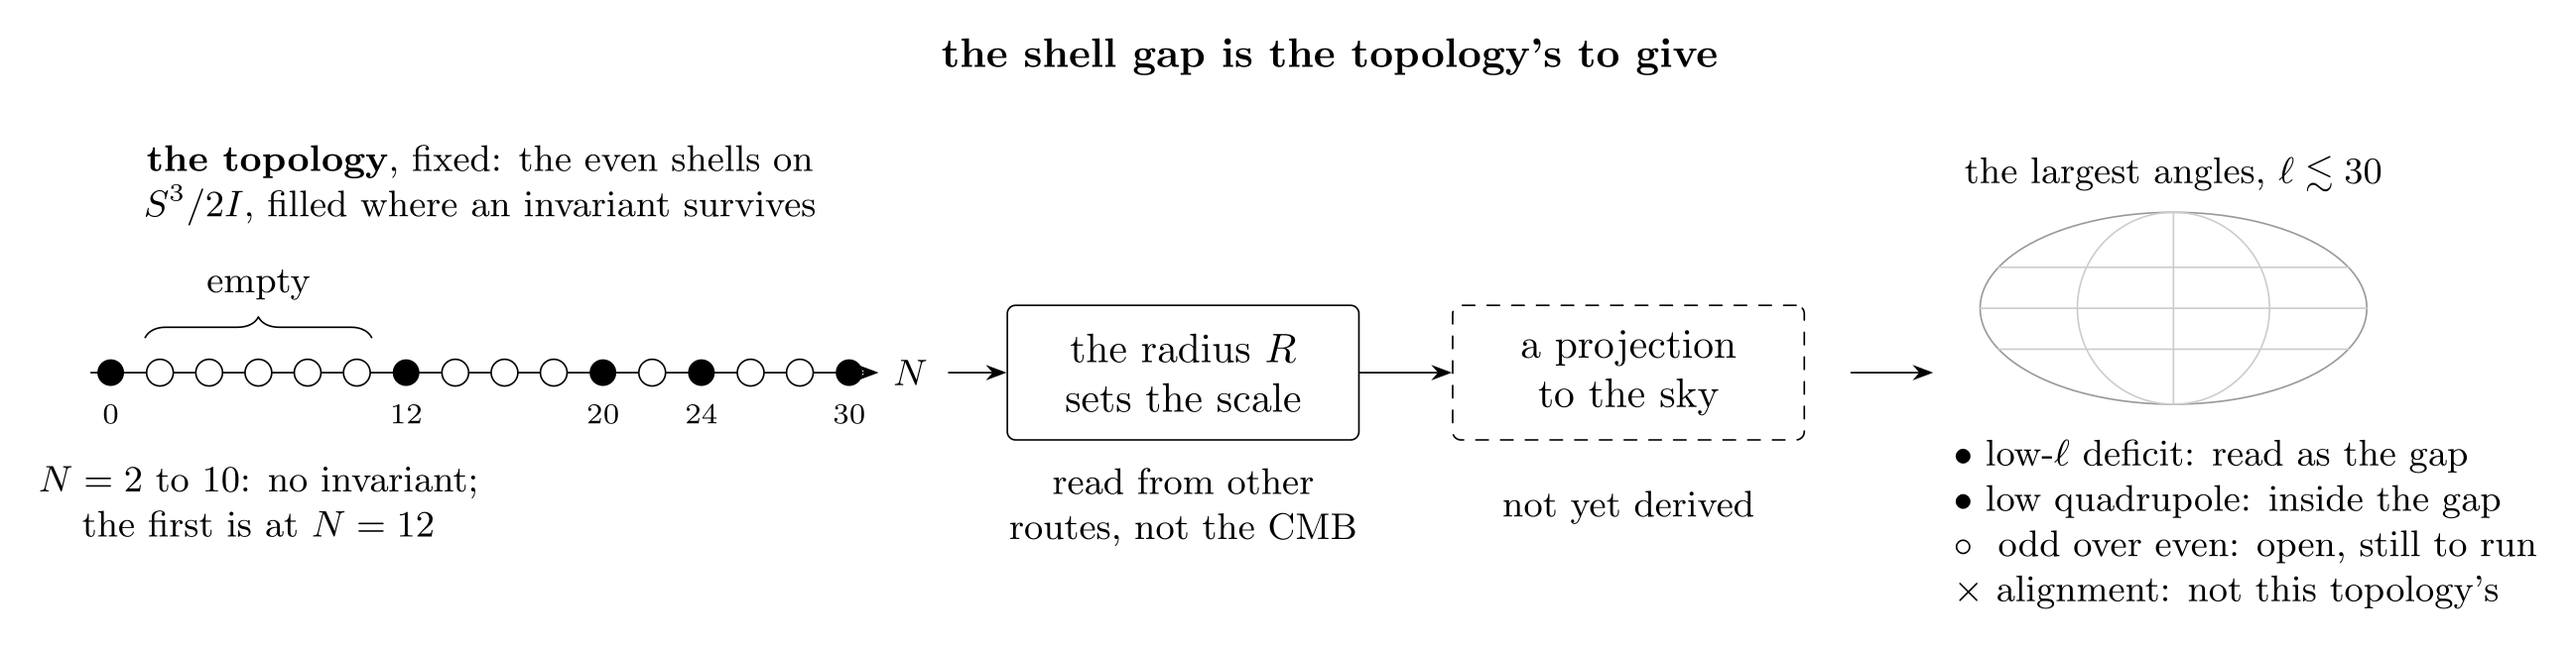
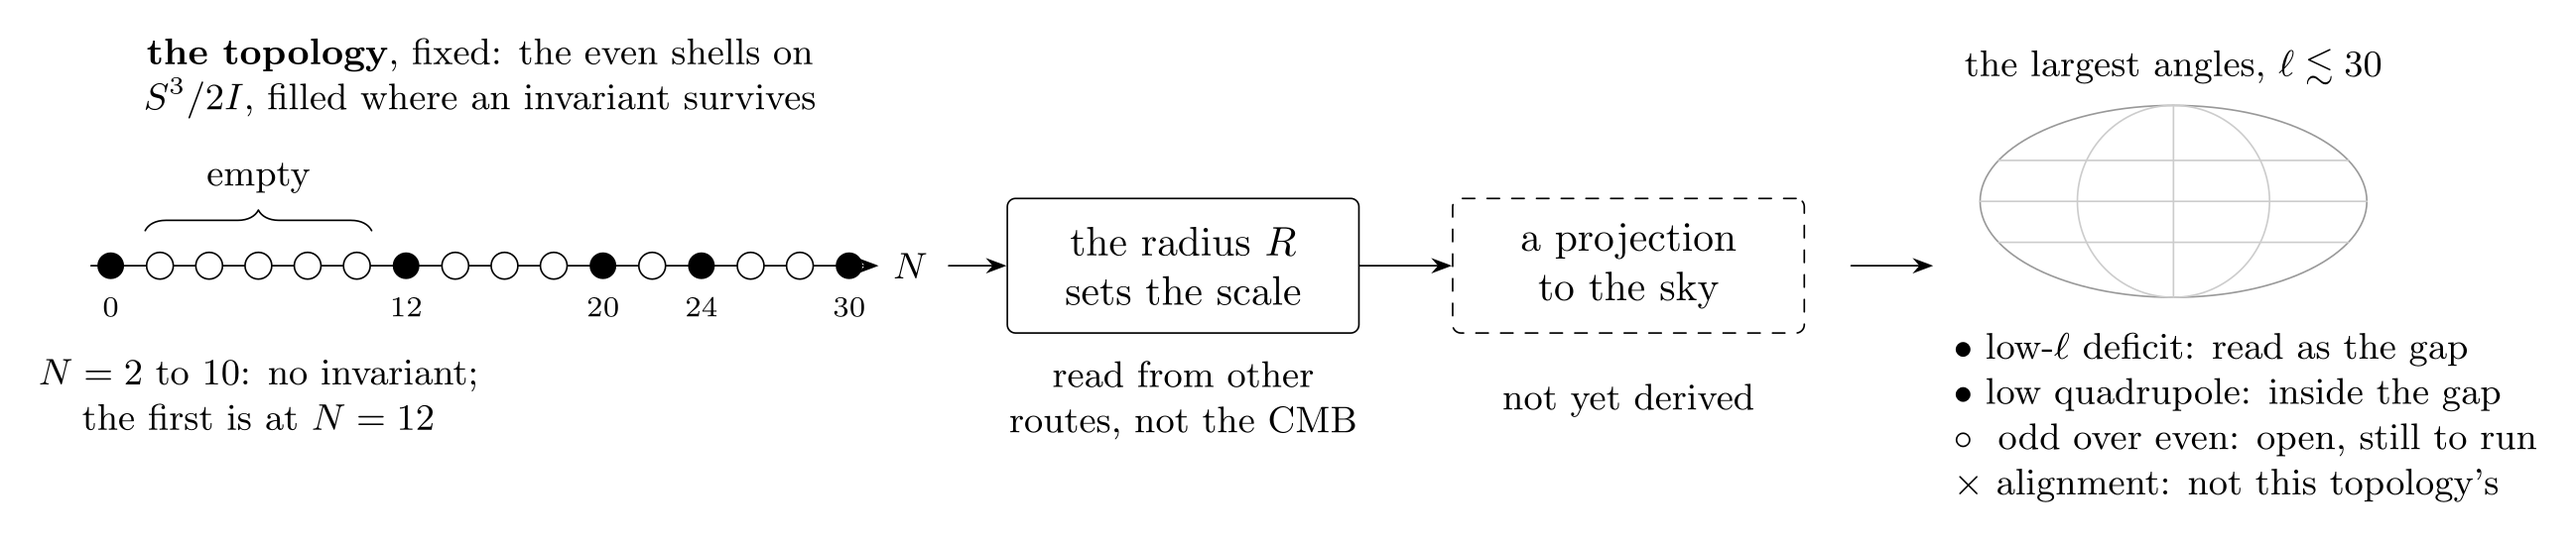
Cosmos: a figure for Dark Energy; no titles on the cosmos figures
Dark Energy's figure goes above its blurb, and the three cosmos
figures drop their top titles to match the rest.

diff --git a/files/cosmos/README.md b/files/cosmos/README.md
@@ -17,7 +17,7 @@ The 120-element group that forms the space leaves an empty stretch in its vibrat
 
 ## [Cosmological Constant](files/cosmological-constant.md)
 
-<p align="center"><img src="https://github.com/dmobius3/mode-identity-theory/blob/main/files/assets/cc-hero.png?raw=true" width="100%" alt="Geometry, not substance. The Möbius surface, unbent in the sphere of radius R and drawn one dimension down, has its first positive level at 2/R². Gauss multiplies by 3 to the space's curvature 6/R², and de Sitter divides by 2 to the vacuum reference 3/R²; identifying that with the observed Λ is open. Still missing: the radius with an error budget of its own, and the energy and pressure the static space's modes carry. Inset: a static sphere filled with any fluid of positive density has ΛR² below 3"></p>
+<p align="center"><img src="https://github.com/dmobius3/mode-identity-theory/blob/main/files/assets/cc-hero.png?raw=true" width="100%" alt="The Möbius surface, unbent in the sphere of radius R and drawn one dimension down, has its first positive level at 2/R². Gauss multiplies by 3 to the space's curvature 6/R², and de Sitter divides by 2 to the vacuum reference 3/R²; identifying that with the observed Λ is open. Still missing: the radius with an error budget of its own, and the energy and pressure the static space's modes carry. Inset: a static sphere filled with any fluid of positive density has ΛR² below 3"></p>
 
 **Geometry, Not Substance.** Einstein put $`\Lambda`$ on the geometric side of his equations in 1917, and MIT keeps it there. The Möbius surface, lying unbent in the projective quotient of a three-sphere of radius $`R`$, where opposite points are identified, hums at $`\Lambda_\text{top} = 2/R^2`$, the first positive level of its vibration spectrum: the twist picks which family of vibrations that level belongs to, and the surface's curvature sets its value. Two standard steps carry that seed into space. The Gauss equation lifts the surface's curvature into the three-sphere, and general relativity's de Sitter relation turns that curvature into a vacuum value, $`\Lambda_\text{ref} = 3/R^2`$. Two things are still missing: the radius itself, and the energy and pressure of the static space's modes, which would show whether $`3/R^2`$ is the constant we measure.
 
@@ -29,7 +29,7 @@ The 120-element group that forms the space leaves an empty stretch in its vibrat
 
 ## [CMB Anomalies](files/cmb-anomalies.md)
 
-<p align="center"><img src="https://github.com/dmobius3/mode-identity-theory/blob/main/files/assets/cmb-hero.png?raw=true" width="96%" alt="The shell gap is the topology's to give. On S³/2I the even shells from N = 2 to 10 carry no invariant, the first at N = 12; the radius R, read from other routes, sets the scale, and a projection to the sky, not yet derived, carries the shells to the largest angles. There the low-ℓ deficit is read as the gap and the low quadrupole sits inside it; odd over even stays open; the alignment is not this topology's"></p>
+<p align="center"><img src="https://github.com/dmobius3/mode-identity-theory/blob/main/files/assets/cmb-hero.png?raw=true" width="96%" alt="On S³/2I the even shells from N = 2 to 10 carry no invariant, the first at N = 12; the radius R, read from other routes, sets the scale, and a projection to the sky, not yet derived, carries the shells to the largest angles. There the low-ℓ deficit is read as the gap and the low quadrupole sits inside it; odd over even stays open; the alignment is not this topology's"></p>
 
 **Topology and the CMB.** Four large-angle oddities in the oldest light have survived COBE, WMAP and Planck: too little power on the largest scales, a low quadrupole, odd multipoles outweighing even ones, and a quadrupole lined up with the octupole. On $`S^3/2I`$, only vibration patterns unchanged by the 120-element group survive, and apart from the constant mode none appears until level $`N = 12`$. That empty stretch, the Molien gap, is MIT's account of the missing large-angle power, and the low quadrupole falls inside the same thinning; where the gap lands on the sky depends on the sphere's radius and on how the space's patterns project onto the sky, which is still being worked out. The odd-over-even preference has no mechanism yet: the mirror route is closed because the space is chiral, and a correlation route is a calculation still to run. For a Gaussian source the alignment isn't this geometry's doing: with the icosahedral symmetry intact, the quadrupole has no preferred direction.
 
@@ -40,6 +40,8 @@ The 120-element group that forms the space leaves an empty stretch in its vibrat
 ---
 
 ## [Dark Energy](files/dark-energy.md)
+
+<p align="center"><img src="https://github.com/dmobius3/mode-identity-theory/blob/main/files/assets/de-hero.png?raw=true" width="93%" alt="Left: on the wave S = sin(t/2) what moves is the observer's phase s0; the vacuum stays fixed. Middle: the exact relation's w stays above −1 at every redshift, while a CPL fit to the same distances crosses −1, shown at the demonstration phase s0 = 0.389; at the phases the data allow the effect is about a tenth of DESI's and drifts the other way. Right: the terms of H²(z), with the phase clock's small negative (1+z)¹ term, which none of the standard ingredients makes"></p>
 
 **The Phantom in the Template.** DESI's DR2 fits suggest dark energy that changes over time and even crosses $`w = -1`$, the "phantom divide" that simple models struggle to cross. In MIT the vacuum term doesn't move at all; what moves is the observer's phase on the standing wave. Fit that motion with the standard two-parameter templates (CPL, BA and JBP) and they report a phantom crossing anyway, from a model with no phantom fluid in it. At the phases the data allow, the effect is about a tenth the size of DESI's and drifts the other way, so it shows the mechanism rather than explaining DESI's signal. Against Pantheon+ supernovae and DESI DR2 BAO, the static model and flat ΛCDM, the standard cosmological model, fit equally well. What would tell them apart is a small negative $`(1+z)^1`$ term in the squared Hubble rate, $`H^2(z)`$, that none of the standard ingredients produce; whether upcoming surveys can see it depends on the phase.
 
